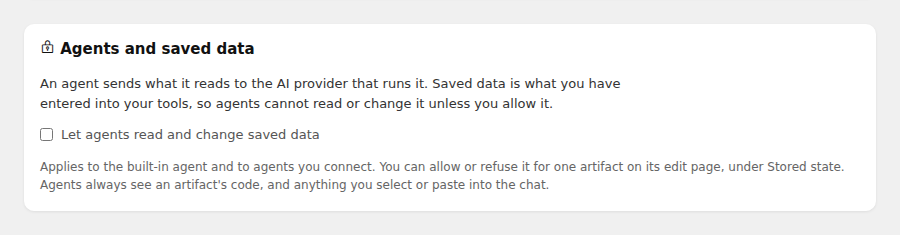
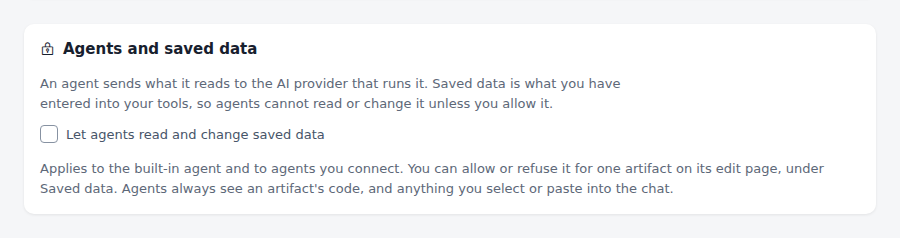
Exh-dabd: renumber migration to 055 and follow main's "Saved data" copy
Main took migration 054 and renamed the edit page's Stored state panel to
Saved data. Point the refusal message, agent prompt, Settings note and
docs at the new name, and qualify the token and OAuth copy that promised
agents could read saved data unconditionally. Screenshots retaken
against the current UI.

diff --git a/internal/api/state.go b/internal/api/state.go
@@ -250,7 +250,7 @@ func (ro *Router) artifactExists(w http.ResponseWriter, r *http.Request, artifac
 // can change it.
 const agentStateRefusal = "the owner has not allowed agents to read or change this artifact's saved data. " +
 	"Do not retry. If the request needs it, tell the person they can allow it on the artifact's edit page " +
-	"(Stored state) or for every artifact in Settings."
+	"(Saved data) or for every artifact in Settings."
 
 // agentStateAllowed resolves whether agents may use a's saved data: the
 // artifact's own override, else its owner's account default. a must be read

diff --git a/docs/agent.md b/docs/agent.md
@@ -157,7 +157,7 @@ AGENT_MARKDOWN_SCREENSHOT_DIR="$PWD/docs/screenshots/Exh-1e7n" \
 What an agent reads goes to the inference provider that runs it, so agents do
 not see saved data until the owner says they may (Exh-dabd). **Settings → Agents
 and saved data** is the account-wide answer, off by default. Each artifact's edit
-page, under **Stored state**, can follow it, allow, or refuse, whatever the
+page, under **Saved data**, can follow it, allow, or refuse, whatever the
 default says. Both apply to the built-in agent and to connected agents.
 
 - **Pi.** A session gets `get_state`, `set_state` and `delete_state`, and a
